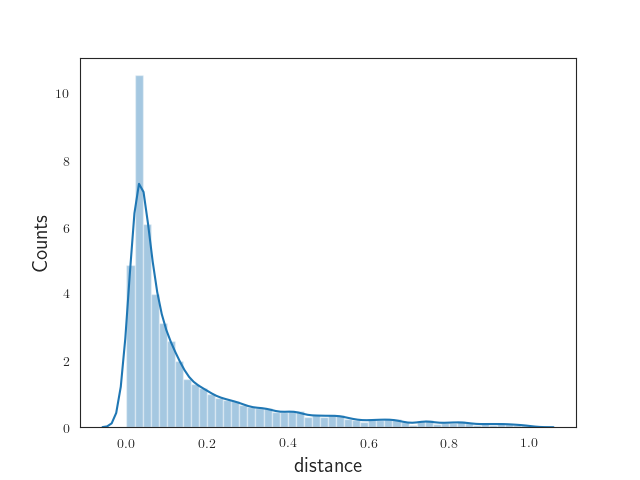
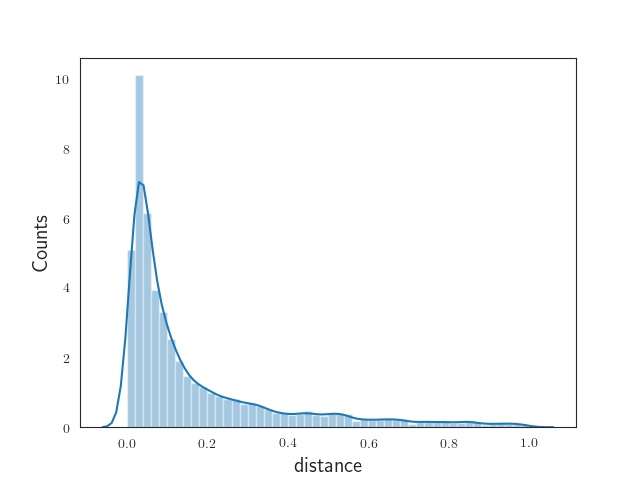
still some problems

diff --git a/learning_purposes/abcpmc_2D_gaussian.py b/learning_purposes/abcpmc_2D_gaussian.py
@@ -137,8 +137,12 @@ def MSE(x, y):
 	""" Mean squared error distance measure"""
 	return np.mean(np.power(x - y,2))
 
+def std(x,y):
+	return abs(np.std(x)-np.std(y))
+
+
 ''' Setup '''
-# 'Best' guess about the distribution
+# 'Best' guess about the distribution, uniform distribution
 prior = abcpmc.TophatPrior([0.0,1.0], [2.0,3.0])
 
 # As threshold for accepting draws from the prior we use the alpha-th percentile
@@ -159,6 +163,7 @@ def launch(threads):
 		print ("T: {0}, eps: {1:>.4f}, ratio: {2:>.4f}".format(
 				pool.t, eps(pool.eps), pool.ratio))
 
+		# prints theta_1 and theta_2
 		for i, (mean,std) in enumerate(zip(*abcpmc.weighted_avg_and_std(
 												pool.thetas, pool.ws, axis=0))):
 			print(u"    theta[{0}]: {1:>.4f} \u00B1 {2:>.4f}".format(i, mean,std))
@@ -176,8 +181,8 @@ def postprocessing(pools):
 	for i in range(len([theta1_fid,theta2_fid])):
 		moments = np.array([abcpmc.weighted_avg_and_std(
 			pool.thetas[:,i], pool.ws, axis=0) for pool in pools])
-		plt.errorbar(range(T),moments[:,0], moments[:,1], label='Theta_%i'%i)
-	plt.hlines([theta1,theta2], 0, T, linestyle='dotted', linewidth=0.7)
+		plt.errorbar(range(T),moments[:,0], moments[:,1], label='Theta %i'%i)
+	plt.hlines([theta1_fid,theta2_fid], 0, T, linestyle='dotted', linewidth=0.7)
 	plt.xlim([-.5,T])
 	plt.xlabel("Iteration")
 	plt.ylabel("Value")
@@ -218,29 +223,31 @@ def postprocessing(pools):
 
 	"""Plot the posterior, visualize with 'corner' package """
 	samples = np.vstack([pool.thetas for pool in pools])
-	fig = corner.corner(samples, truths= [theta1,theta2])
+	fig = corner.corner(samples, truths= [theta1_fid,theta2_fid])
+	plt.savefig('./Figures/multivariate_gaussian/posterior_all_iterations.png')
 	# plt.show() # theres probably a nicer package for this that rotates the Y
 	plt.close()
 
 	""" Plot the posterior, omitting the first iterations """
 	idx = -1
 	samples = pools[idx].thetas
-	fig = triangle.corner(samples, weights=pools[idx].ws, truths= [theta1,theta2])
+	fig = corner.corner(samples, weights=pools[idx].ws, truths= [theta1_fid,theta2_fid])
 	for mean, std in zip(*abcpmc.weighted_avg_and_std(samples, pools[idx].ws, axis=0)):
 		print(u"mean: {0:>.4f} \u00B1 {1:>.4f}".format(mean,std))
 	plt.savefig('./Figures/multivariate_gaussian/posterior.png')
 	# plt.show()
+	plt.close()
 
 
 # Pools fail if we dont execute this if statement
 if __name__ == '__main__':
 	# check the variability of the distances at the correct parameters
-	#distances = [MSE(data, generate_data_quick([theta1_fid,theta2_fid])) for _ in range(1000)]
-	#sns.distplot(distances, axlabel="distances", )
-	#plt.title("Variablility of distance from simulations")
-	#plt.savefig('./Figures/multivariate_gaussian/variability_of_distances.png')
-	#plt.show()
-	#plt.close()
+	# distances = [MSE(data, generate_data_quick([theta1_fid,theta2_fid])) for _ in range(5000)]
+	# sns.distplot(distances, axlabel="distances", )
+	# plt.title("Variablility of distance from simulations")
+	# plt.savefig('./Figures/multivariate_gaussian/variability_of_distances.png')
+	# plt.show()
+	# plt.close()
 	# Shows variability is between roughly 1 sigma upper/lower bounds: 2.5 and 3.5 
 
 	threads = 10
@@ -249,15 +256,14 @@ if __name__ == '__main__':
 	# The sampler HAS to be created in the __main__ thread else multiprocessing
 	# does not work, and then still it might not work..
 	sampler = abcpmc.Sampler(N=5000, Y=data, postfn=generate_data_quick
-				, dist=dist_measure, threads=threads)
+				, dist=std, threads=threads)
 	
 	# Optional: customize the proposal creation. 
 	# Here we use Optimal Local Covariance Matrix - kernel. (Filipi et al. 2012)
-	# sampler.particle_proposal_cls = abcpmc.OLCMParticleProposal
+	sampler.particle_proposal_cls = abcpmc.OLCMParticleProposal
 
 	import time
 	t0 = time.time()
 	pools = launch(threads)
 	print ("took %.2f seconds"%(time.time() - t0))
-
 	postprocessing(pools)

diff --git a/learning_purposes/abcpmc_2D_gaussian_example.py b/learning_purposes/abcpmc_2D_gaussian_example.py
@@ -19,6 +19,8 @@ import tqdm
 import abcpmc # find citation at https://github.com/jakeret/abcpmc
 import corner # find citation at https://github.com/dfm/corner.py
 
+import time
+
 import matplotlib.pyplot as plt
 import seaborn as sns
 sns.set_style("white")
@@ -68,7 +70,7 @@ parameters = {
 
 samples_size = 100
 sigma = np.eye(2) * 0.25
-means = [1.1, 1.5]
+means = [1.0, 2.0]
 data = np.random.multivariate_normal(means, sigma, samples_size)
 # plt.matshow(sigma) # display array as matrix
 # plt.title('Covariance matrix sigma')
@@ -83,17 +85,22 @@ def dist_measure(x, y):
 	"""Sum of the abs difference of the mean of the simulated and obs data"""
 	return np.sum(np.abs(np.mean(x, axis=0) - np.mean(y, axis=0)))
 
-# check the variability of the distances at the correct parameters
-# distances = [dist_measure(data, create_new_sample(means)) for _ in range(1000)]
-# sns.distplot(distances, axlabel="distances", )
-# plt.title("Variablility of distance from simulations")
-# plt.savefig('./Figures/abcpmc/variability_of_distances.png')
-# plt.show()
-# plt.close()
+def MSE(x, y):
+	""" Mean squared error distance measure"""
+	return np.mean(np.power(x - y,2))
+
+def euclidian(x,y):
+	return np.linalg.norm(x-y)
+
+def std(x,y):
+	return abs(np.std(x)-np.std(y))
 
 ''' Setup '''
 # 'Best' guess about the distribution
 prior = abcpmc.GaussianPrior(mu=[1.0, 1.0], sigma=np.eye(2) * 0.5)
+
+# 'Best' guess about the distribution, uniform distribution
+prior = abcpmc.TophatPrior([0.0,0.0], [5.0,5.0])
 
 # As threshold for accepting draws from the prior we use the alpha-th percentile
 # of the sorted distances of the particles of the current iteration
@@ -109,6 +116,7 @@ def launch(threads):
 
 	pools = []
 	# pool is a namedtuple representing the values of one iteration
+	print ('Starting sampling now..')
 	for pool in sampler.sample(prior, eps):
 		print ("T: {0}, eps: {1:>.4f}, ratio: {2:>.4f}".format(
 				pool.t, eps(pool.eps), pool.ratio))
@@ -189,9 +197,18 @@ def postprocessing(pools):
 
 # Pools might fail if we dont execute this if statement
 if __name__ == '__main__':
-	threads = 4 # for some reason threads>1 gives a Broken pipe error
+	threads = 10 # for some reason threads>1 gives a Broken pipe error
 
-	print ('???')
+	# check the variability of the distances at the correct parameters
+	# distances = [std(data, create_new_sample(means)) for _ in range(1000)]
+	# sns.distplot(distances, axlabel="distances", )
+	# plt.title("Variablility of distance from simulations")
+	# plt.savefig('./Figures/abcpmc/variability_of_distances.png')
+	# plt.show()
+	# plt.close()
+	# time.sleep(5)
+
+
 	# Create an instance of the sampler. 5000 particles
 	# The sampler HAS to be created in the __main__ thread else multiprocessing
 	# does not work 
@@ -203,7 +220,6 @@ if __name__ == '__main__':
 	sampler.particle_proposal_cls = abcpmc.OLCMParticleProposal
 
 	# sampler = create_sampler(threads)
-	import time
 	t0 = time.time()
 	pools = launch(threads)
 	print ("took %.2f seconds"%(time.time() - t0))
